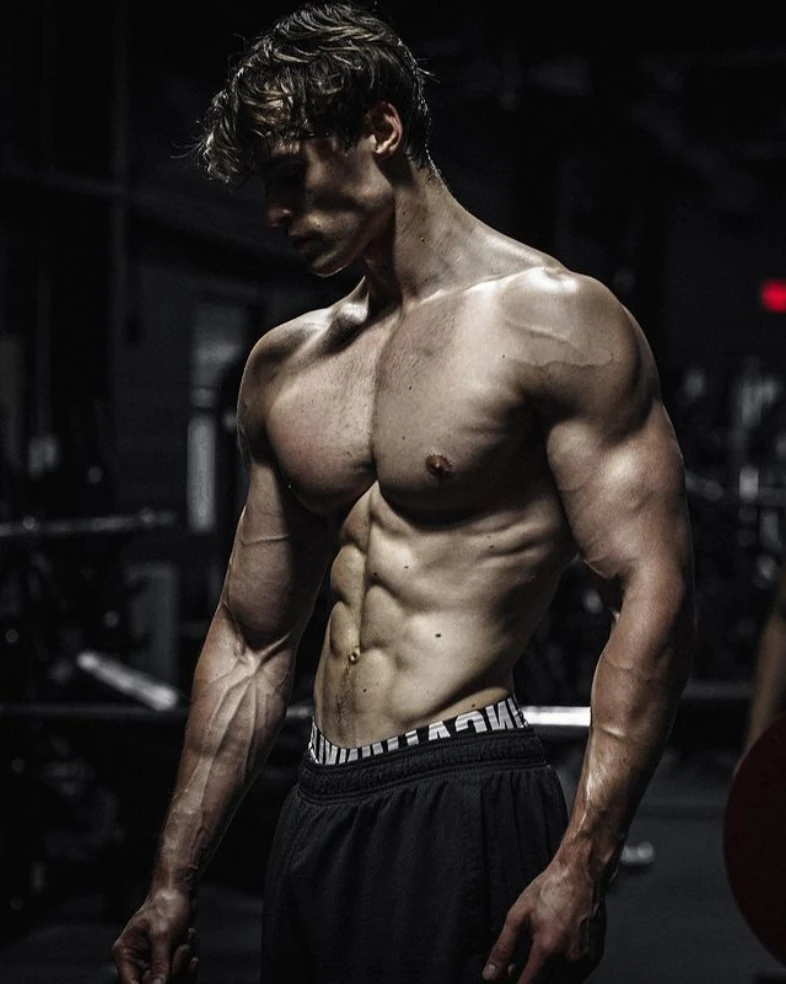
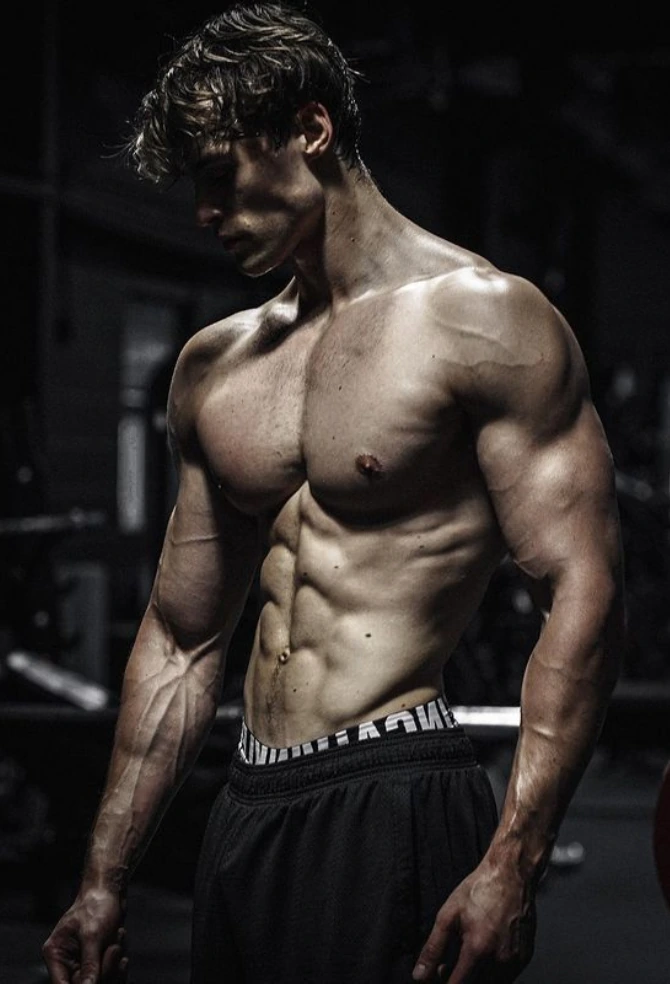
Fix grey stripe and center Aesthetics photo (#32)
* Center Aesthetics portrait and refresh cached photo asset

* Replace Aesthetics card image with correctly cropped and centered original photo

diff --git a/templates/choose-goal.html b/templates/choose-goal.html
@@ -51,7 +51,7 @@ body.logged-in:has(.goal-onboarding) .page-content{padding:0!important;max-width
 .goal-card:hover .goal-cover{transform:scale(1.035)}
 .goal-cover-1{background-image:url('/static/img/goal-strength.webp');background-position:48% 50%}
 .goal-cover-2{background-image:url('/static/img/goal-endurance.webp');background-position:56% 50%}
-.goal-cover-3{background-image:url('/static/img/goal-aesthetics.webp');background-position:50% 41%}
+.goal-cover-3{background-image:url('/static/img/goal-aesthetics.webp?v=2');background-position:50% 50%}
 .goal-cover-4{background-image:url('/static/img/goal-general.webp');background-position:50% 48%}
 .goal-cover-5{background-image:url('/static/img/goal-wellbeing.webp');background-position:50% 50%}
 .goal-overlay{background:linear-gradient(0deg,rgba(7,8,12,.94) 0%,rgba(7,8,12,.71) 19%,rgba(8,9,13,.12) 60%,rgba(8,9,13,.12) 100%)}
